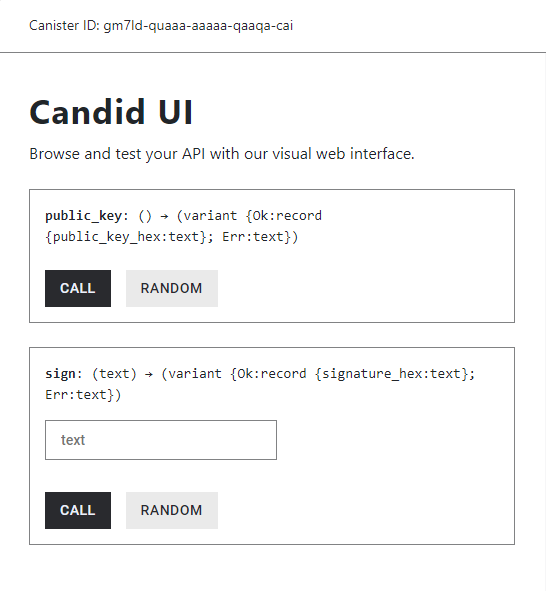
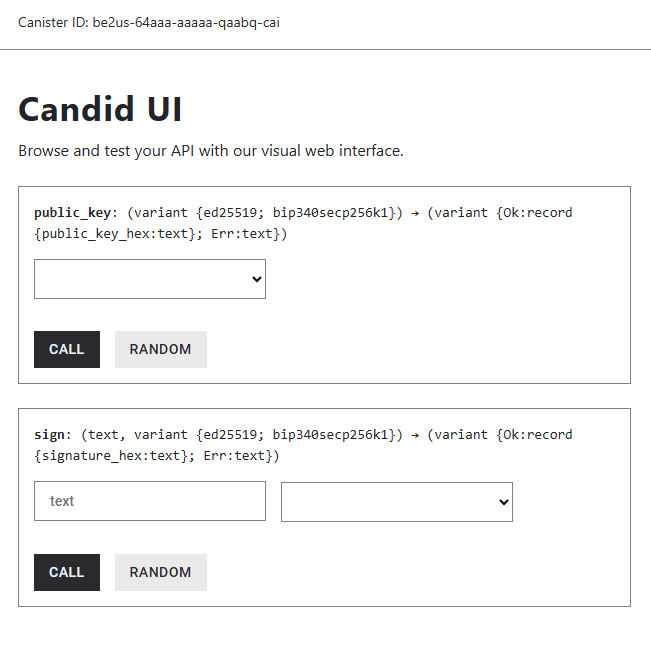
Add the threshold Schnorr signature example.

diff --git a/docusaurus/docs/getting-started/code-examples/threshold-schnorr/index.md b/docusaurus/docs/getting-started/code-examples/threshold-schnorr/index.md
@@ -1,41 +1,251 @@
 ---
 title: 门限 Schnorr 签名
+image: './img/threshold-signature.png'
 description: 如何使用互联网计算机 (IC) 的 门限 Schnorr 签名功能
-keywords: [DFINITY, ICP, IC, 互联网计算机, canister, threshold, schnorr，signature]
+keywords: [DFINITY, ICP, IC, 互联网计算机, canister, threshold, schnorr, signature]
 ---
 
 import TeamContact from '../../../contact.md';
 
 # 门限 Schnorr 签名
 
+![threshold-signature](./img/threshold-signature.png)
+
 ## 概览 {#overview}
+
+本教程提供了一个最小的容器智能合约、用于展示[门限 Schnorr](https://internetcomputer.org/docs/current/developer-docs/smart-contracts/signatures/t-schnorr) 的相关接口。
+
+该示例容器使用基于容器 ID 和所选算法（BIP340 或 Ed25519）派生的密钥来创建 Schnorr 签名。具体包括：
+
+- 示例容器接收到包含消息和算法 ID 的请求；  
+- 示例容器使用密钥派生字符串作为派生路径；  
+- 示例容器根据上述信息向门限 Schnorr 子网请求签名（门限 Schnorr 子网是生成门限 Schnorr 签名的子网）。
+
+本教程提供了完整的开发介绍：从下载 IC SDK 开始直到在 IC 主网上部署代码。其中重点介绍 [Motoko](https://internetcomputer.org/docs/current/developer-docs/backend/motoko/) 编程语言编写的[版本](https://github.com/dfinity/examples/tree/master/motoko/threshold-schnorr)，同时也提供了 Rust [版本](https://github.com/dfinity/examples/tree/master/rust/threshold-schnorr)以供参考。
 
 ## 要求 {#prerequisites}
 
+- 下载并安装 [IC SDK](https://ic123.xyz/docs/getting-started/install-dfx/)。  
+  如果您想要在本地开发环境进行测试，dfx 的版本不低于 `0.22.0-beta.0`。
+- 下载[示例仓库](https://github.com/dfinity/examples)。 
+
 ## 开始 {#get-started}
+
+在示例仓库中，`threshold-schnorr` 的示例代码有 [Motoko](https://github.com/dfinity/examples/tree/master/motoko/threshold-schnorr) 和 [Rust](https://github.com/dfinity/examples/tree/master/rust/threshold-schnorr) 两个版本。
 
 ### 本地部署并测试 {#deploy-locally}
 
+本教程使用 [Motoko](https://github.com/dfinity/examples/tree/master/motoko/threshold-schnorr) 版本的进行演示。在完成 Clone [示例仓库](https://github.com/dfinity/examples)之后，执行如下命令：
+
+```bash
+cd examples/motoko/threshold-schnorr
+dfx start --background
+dfx deploy
+```
+
+其中：
+- `dfx start --background` 会在本地后台启动一个 IC 的运行实例。
+- `dfx deploy` 将会编译 `threshold-schnorr` 工程、并将容器部署到 IC 本地的运行实例。
+
+如果成功，您会在命令行看到类似如下的输入：
+
+```bash
+Deployed canisters.
+URLs:
+  Backend canister via Candid interface:
+    schnorr_example_motoko: http://127.0.0.1:4943/?canisterId=br5f7-7uaaa-aaaaa-qaaca-cai&id=be2us-64aaa-aaaaa-qaabq-cai
+```
+
+如果您在浏览器中打开上述的 URL，您将会看到一个如下图所示的界面，它展示了容器所实现的 `public_key` 和 `sign` 方法。
+
+![candid_ui](./img/candid_ui.png)
+
 ## IC 主网部署 {#ic-mainnet-deployment}
 
-### 修改代码 {#modify-code}
+在将容器部署到 IC 主网之前，您需要完成以下两件事情：
+
+- 获取 cycles。  
+  您可以参考[如何获取 cycles](https://ic123.xyz/docs/getting-started/get-cycles/) 来从 cycles 水龙头获取免费 cycles。
+- 更新示例代码中的 key ID。
+
+### 修改代码 {#update-code}
+
+在部署到 IC 主网之前，您需要修改 `src/schnorr_example_motoko/main.mo` 文件中的 `key_id` 的 `name` 属性。
+
+关于 `key_id` 的 `name` 属性，有三个选项：
+
+- `dfx_test_key`: 默认值，用来在本地 IC 的运行实例部署容器。
+- `test_key_1`: 主测试秘钥，用于主网。
+- `key_1`: 主生产秘钥，用于主网。
+
+关于 `test_key_1` 和 `key_1` 的详细信息，请参考 [Schnorr 秘钥](https://internetcomputer.org/docs/current/references/t-sigs-how-it-works#threshold-keys)。
+
+示例中 `src/ecdsa_example_motoko/main.mo` 的代码可直接部署到本地，它包含了如下两段代码：
+
+```jsx
+let { public_key } = await ic.schnorr_public_key({
+  canister_id = null;
+  derivation_path = [Principal.toBlob(caller)];
+  key_id = { algorithm = algorithm_arg; name = "dfx_test_key" };
+});
+```
+
+```jsx
+let { signature } = await ic.sign_with_schnorr({
+  message = Text.encodeUtf8(message_arg);
+  derivation_path = [Principal.toBlob(caller)];
+  key_id = { algorithm = algorithm_arg; name = "dfx_test_key" };
+});
+```
+
+如果您需要部署到 IC 主网，则需要将以上两处 `key_id` 的 `dfx_test_key` 值根据您的意图替换为 `test_key_1` 或 `key_1`，而且它们必须一致。
 
 ### 部署到 IC 主网 {#deploy-to-ic-mainnet}
 
+如果您从没有部署到 IC 主网，请参考 [Hello World](https://ic123.xyz/docs/getting-started/hello-world/) 示例。
+
+部署到 IC 主网很简单，您只需在命令行执行：
+
+```bash
+dfx deploy --network ic
+```
+
+```bash
+Deployed canisters.
+URLs:
+  Backend canister via Candid interface:
+    schnorr_example_motoko: https://a4gq6-oaaaa-aaaab-qaa4q-cai.raw.icp0.io/?id=736w4-cyaaa-aaaal-qb3wq-cai
+```
+
+:::info
+该容器的 Rust 实现（schnorr_example_rust）已经部署在主网上，可以通过Candid UI URL https://a4gq6-oaaaa-aaaab-qaa4q-cai.raw.icp0.io/?id=enb64-iaaaa-aaaap-ahnkq-cai 进行访问。
+:::
+
 ## 获取公钥 {#obtain-public-key}
+
+当您部署了容器之后会获得一个指向 Candid UI 的 URL，在这个页面您可以访问容器提供的公开方法。下图所示就是调用 `public_key` 方法：
+
+![public_key](./img/candid_ui_public-key.png)
+
[1 lines of base64/hex data omitted]
 
 ### 代码分析 {#analyze-public-key}
 
+如果您打开 [src/schnorr_example_motoko/main.mo](https://github.com/dfinity/examples/blob/master/motoko/threshold-schnorr/src/schnorr_example_motoko/main.mo)，如下的代码展示了如何获得一个 Schnorr 公钥。
+
+```jsx
+var ic : IC = actor ("aaaaa-aa");
+
+  public shared ({ caller }) func public_key(algorithm_arg : SchnorrAlgorithm) : async {
+    #Ok : { public_key_hex : Text };
+    #Err : Text;
+  } {
+    try {
+      let { public_key } = await ic.schnorr_public_key({
+        canister_id = null;
+        derivation_path = [Principal.toBlob(caller)];
+        key_id = { algorithm = algorithm_arg; name = "dfx_test_key" };
+      });
+      #Ok({ public_key_hex = Hex.encode(Blob.toArray(public_key)) });
+    } catch (err) {
+      #Err(Error.message(err));
+    };
+  };
+```
+
+可以看到容器代码调用了 [IC 管理容器](https://internetcomputer.org/docs/current/references/ic-interface-spec/#ic-management-canister)的 `schnorr_public_key` 方法。
+
+:::note
+[IC 管理容器](https://internetcomputer.org/docs/current/references/ic-interface-spec/#ic-management-canister)遵循了[外观设计模式](https://en.wikipedia.org/wiki/Facade_pattern)，也就是说并没有一个真正意义上的容器存在，这种设计让其他容器能以人性化的方式调用 IC 系统 API（就好像存在一个真实的容器）。上面的代码示例使用了 IC 管理容器创建了一个 Schnorr 公钥。而 `let ic: IC = actor("aaaaa-aa")` 则声明了 IC 管理容器。
+:::
+
 ### 容器根公钥 {#canister-root-public-key}
+
+在调用 IC 管理容器的 `schnorr_public_key` 方法时，您可以将 `derivation_path` 设置为空来获取容器的根公钥。
 
 ### 秘钥派生 {#key-derivation}
 
+在 BIP-32 密钥派生层次中，需要指定一个派生路径以获取容器根密钥下的公钥。一般来说，派生路径数组中的每个元素是一个以大端序编码的 4 个字节 32 位整数，或者是任意长度的字节数组。该元素用于在派生层次结构的相应级别中派生密钥。
+
+在上面的示例代码中，我们使用从 `caller` 主体中提取的字节来填充 `derivation_path`，以便不同的调用者容器都能够通过调用的 `public_key` 方法的获取自己的公钥。
+
 ## 签名 {#sign}
+
+计算门限 Schnorr 签名是此功能的核心。**容器本身不持有 Schnorr 密钥**，而是从专用子网持有的主密钥派生密钥。容器可以通过 IC 管理容器的接口 `sign_with_schnorr` 请求计算签名。该请求将会被路由到持有指定密钥的子网，并使用门限密码学来计算所请求的签名。这样就可以从共享密钥和请求容器的主体标识符中，来派生进一步派生所获得的密钥或容器根密钥。因此，容器只能请求为其容器根密钥或从其派生的密钥创建签名。这意味着容器“控制”着其私有的 Schnorr 密钥，因为它们决定何时使用它们创建签名、但本身不持有私有密钥。
+
+下图所示就是在 Candid UI 页面调用 `sign` 方法：
+
+![sign](./img/candid_ui_sign.png)
+
[1 lines of base64/hex data omitted]
 
 ### 代码分析 {#analyze-sign}
 
+如下的代码展示了如何获得一个 Schnorr 签名。
+
+```jsx
+  public shared ({ caller }) func sign(message_arg : Text, algorithm_arg : SchnorrAlgorithm) : async {
+    #Ok : { signature_hex : Text };
+    #Err : Text;
+  } {
+    try {
+      Cycles.add(25_000_000_000);
+      let { signature } = await ic.sign_with_schnorr({
+        message = Text.encodeUtf8(message_arg);
+        derivation_path = [Principal.toBlob(caller)];
+        key_id = { algorithm = algorithm_arg; name = "dfx_test_key" };
+      });
+      #Ok({ signature_hex = Hex.encode(Blob.toArray(signature)) });
+    } catch (err) {
+      #Err(Error.message(err));
+    };
+  };
+```
+
+同样，容器调用了 [IC 管理容器](https://internetcomputer.org/docs/current/references/ic-interface-spec/#ic-management-canister)的 `sign_with_schnorr` 方法。
+
 ## 验证签名 {#verify-signature}
 
+为了完整起见，本教程展示了如何使用相同容器和派生路径所对应的公钥来验证签名。请注意，与该示例的 Rust 版本相比，签名验证并不属于容器实现的一部分，而是在 Javascript 中进行的。
+
+`Ed25519` 可以如下验证：
+
+```jsx
+import('@noble/curves/ed25519').then((ed25519) => { verify(ed25519.ed25519); })
+  .catch((err) => { console.log(err) });
+
+function verify(ed25519) {
[2 lines of base64/hex data omitted]
+  const test_msg = Uint8Array.from(Buffer.from("hello", 'utf8'));
+
+  console.log(ed25519.verify(test_sig, test_msg, test_pubkey));
+  }
+```
+
+`BIP340` 可以如下验证：
+
+```jsx
+import('@noble/curves/secp256k1').then((bip340) => { verify(bip340.schnorr); })
+  .catch((err) => { console.log(err) });
+
+function verify(bip340) {
[1 lines of base64/hex data omitted]
+  // the first byte of the BIP340 public key is truncated
[1 lines of base64/hex data omitted]
+  const test_msg = Uint8Array.from(Buffer.from("hello", 'utf8'));
+
+  console.log(bip340.verify(test_sig, test_msg, test_pubkey));
+}
+```
+
+借助支持 [BIP340](https://github.com/bitcoin/bips/blob/master/bip-0340.mediawiki#user-content-Messages_of_Arbitrary_Size) 中指定的任意消息长度的 `bip340secp256k1` 签名和 `ed25519` 签名的加密库，类似的验证可以在许多其他语言中完成。
+
 ## 总结 {#conclusion}
+
+在本教程中，您部署了一个容器：
+- 使用私有 Schnorr 密钥签名，而容器本身不持有 Schnorr 密钥。
+- 请求公钥。
+- 验证签名。
 
 <TeamContact />
